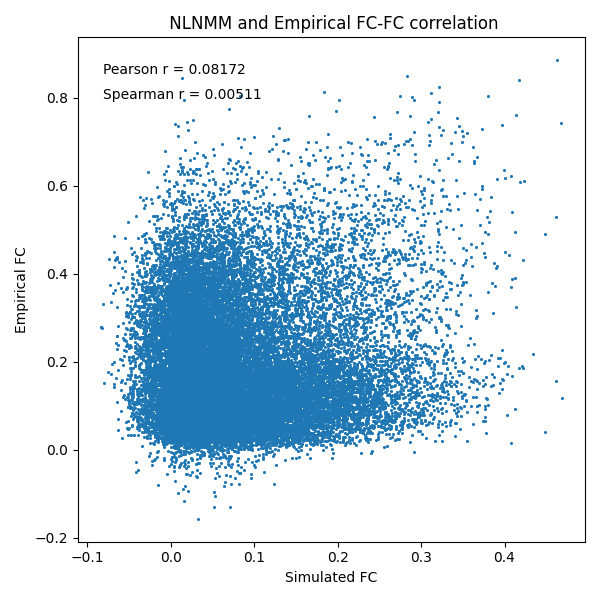
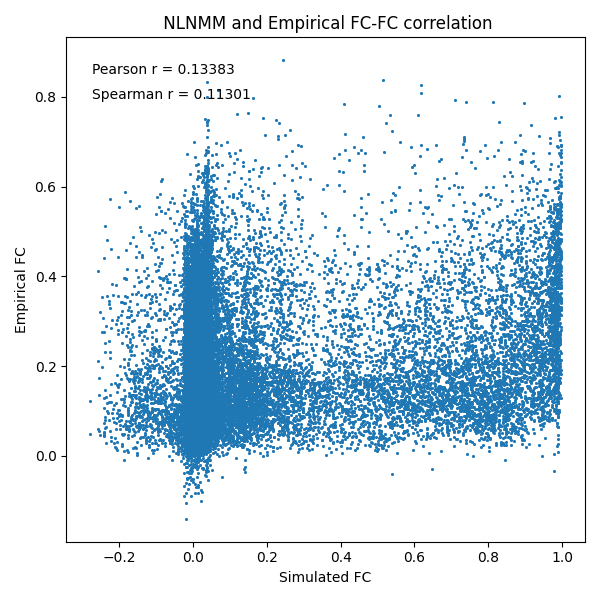
new nlm sim

diff --git a/Evaluation/Evaluate_nlm.py b/Evaluation/Evaluate_nlm.py
@@ -14,7 +14,7 @@ import evaluation_tools as et
 # ---------------------------------------------------------
 # --- CONTINUE FROM YOUR SCRIPT ---------------------------
 # ---------------------------------------------------------
-MODIFIED = False
+MODIFIED = True
 
 RUN_SIMULATION = True
 SHOW_TIME_SERIES = False
@@ -166,10 +166,6 @@ def eval():
     p = pear_fc
     s = spear_fc
 
-    print(f"nonLinear_pearson_{m}=[")
-    for p in person_arr:
-        print(f"{p},")
-    print(f"]")
 
     if PLOT:
         plt.figure(figsize=(6, 6))
